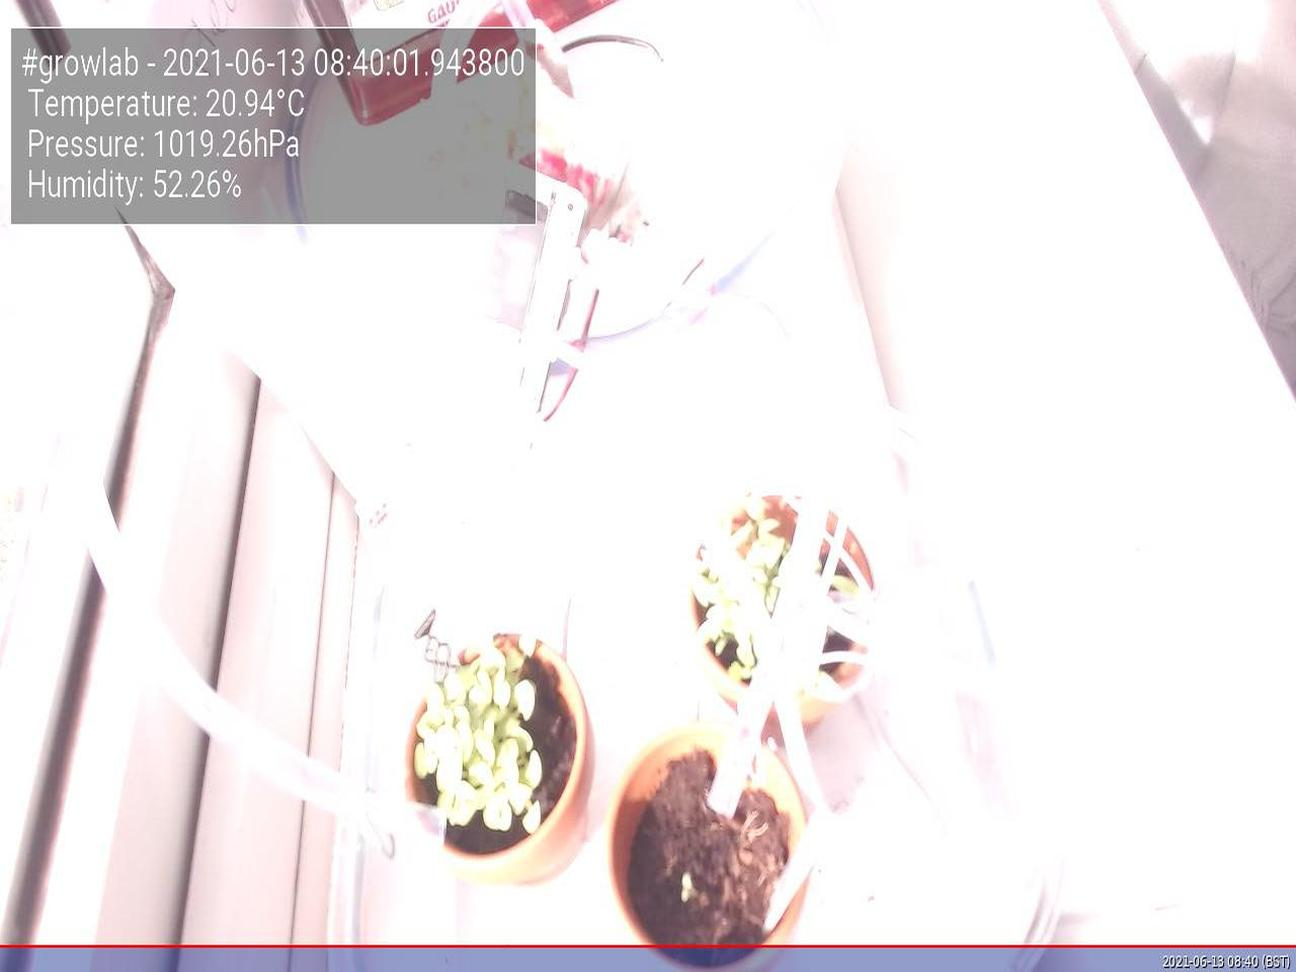
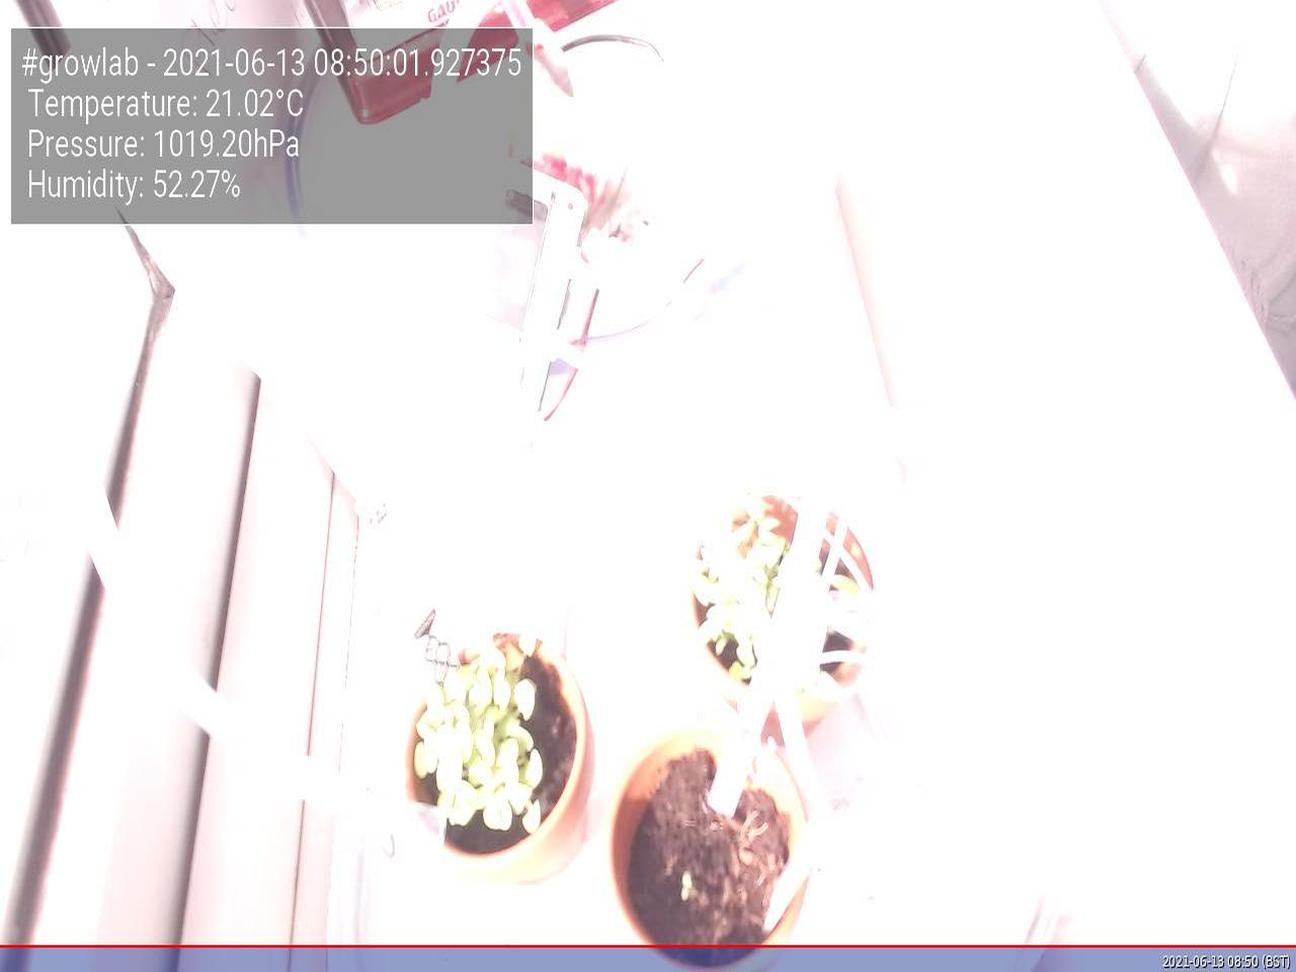
Update images at Sun 13 Jun 08:50:05 BST 2021

diff --git a/app/docs/index.html b/app/docs/index.html
@@ -47,19 +47,19 @@
                         <tbody>
                             <tr>
                                 <td>Time</td>
-                                <td>2021-06-13 08:40:01.943800</td>
+                                <td>2021-06-13 08:50:01.927375</td>
                             </tr>
                             <tr>
                                 <td>Temperature</td>
-                                <td>20.94°C</td>
+                                <td>21.02°C</td>
                             </tr>
                             <tr>
                                 <td>Humidity</td>
-                                <td>52.26%</td>
+                                <td>52.27%</td>
                             </tr>
                             <tr>
                                 <td>Pressure</td>
-                                <td>1019.26hPa</td>
+                                <td>1019.20hPa</td>
                             </tr>
                         </tbody>
                     </table>
@@ -67,7 +67,7 @@
 
                 <h5>Latest image</h5>
                 <div style="width: 85%;">
-                            <img class="figure-img img-fluid rounded" src="./preview.jpg?uid=1623570005.6859555">
+                            <img class="figure-img img-fluid rounded" src="./preview.jpg?uid=1623570605.6730912">
                 </div>
             </div>
         </div>
